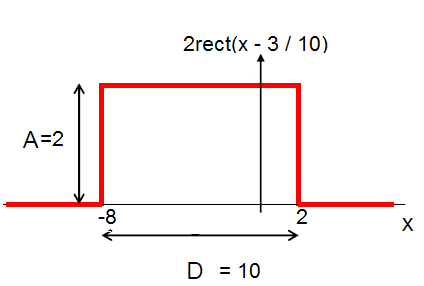
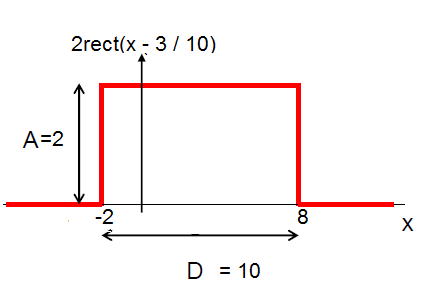
Revertinng q2 offset and minor fixes

diff --git a/provaVisao2015Casa.tex b/provaVisao2015Casa.tex
@@ -269,7 +269,7 @@ que é $3$ neste caso e, portanto:
 \begin{align*}
     2 . rect\bigg(\frac{x-3}{10}\bigg) \xrightarrow{\mathscr{F}} 20\frac{\sin 5\omega}{5\omega}e^{-3\omega i} \\
     g(x) = 2 . rect\bigg(\frac{x-3}{10}\bigg) = \left\{ \begin{array}{rl} 
-     2, &\mbox{ $-8 < x < 2$} \\
+     2, &\mbox{ $-2 < x < 8$} \\
      0, &\mbox{ caso contrário}
            \end{array} \right.
 \end{align*}
@@ -379,8 +379,9 @@ Temos que N=4, ou seja, o número de pontos no plano de Argand-Gauss, logo:
     &X_0 = (1 + i) + (-1 + i) + (-1 - i) + (1 - i)) &\\
     &X_1 = (1 + i) + (-1 + i)e^{\frac{-2\pi i}{4}} + (-1 - i)e^{\frac{-4\pi i}{4}} + (1 - i)e^{\frac{-6\pi i}{4}} &\\
     &X_2 = (1 + i) + (-1 + i)e^{\frac{-4\pi i}{4}} + (-1 - i)e^{\frac{-8\pi i}{4}} + (1 - i)e^{\frac{-12\pi i}{4}} &\\
-    &X_3 = (1 + i) + (-1 + i)e^{\frac{-6\pi i}{4}} + (-1 - i)e^{\frac{-12\pi i}{4}} + (1 - i)e^{\frac{-18\pi i}{4}} &\\
+    &X_3 = (1 + i) + (-1 + i)e^{\frac{-6\pi i}{4}} + (-1 - i)e^{\frac{-12\pi i}{4}} + (1 - i)e^{\frac{-18\pi i}{4}} &
 \end{align*}
+
 Calculando cada exponencial complexa com a relação de Euler e substituindo os resultados na equação acima:
 \begin{align*}
     &e^{\frac{-2\pi i}{4}} = cos(\frac{2\pi}{4}) - isen(\frac{2\pi}{4}) = -i &\\
@@ -414,13 +415,16 @@ Com base no teorema de Pitágoras temos que a hipotenusa c desse triângulo é d
  c &= \sqrt{18}	     
 \end{align*}
 
-Consequentemente, temos que a diagonal é $d = \sqrt{18} = 4.24264$ e as coordenadas dos pontos são:
+Consequentemente, temos que a diagonal é $d = \sqrt{18} = 4.24264$ e as coordenadas dos pontos da imagem, que denominei de $f$, são:
 \begin{align*}
-    (5, 4 + \frac{4.24264}{2}), (5 - \frac{4.24264}{2}, 4), (5, 4 - \frac{4.24264}{2}), (5 + \frac{4.24264}{2}, 4) \\
-    (5, 6.12132), (2.87868, 4), (5, 1.87868), (7.12132, 4)
+    f &= (5, 4 + \frac{4.24264}{2}), (5 - \frac{4.24264}{2}, 4), (5, 4 - \frac{4.24264}{2}), (5 + \frac{4.24264}{2}, 4) \\
+    f &= (5, 6.12132), (2.87868, 4), (5, 1.87868), (7.12132, 4)
 \end{align*}
     
-Agora, devemos representar as coordenadas por pontos no Plano de Argand-Gauss, que são: $(5 + 6.12132i, 2.87868 + 4i, 5 + 1.87868i, 7.12132 + 4i)$.
+Agora, devemos representar as coordenadas por pontos no Plano de Argand-Gauss, que são:
+\begin{align*}
+    f &= (5 + 6.12132i, 2.87868 + 4i, 5 + 1.87868i, 7.12132 + 4i)
+\end{align*}
 
 Os descritores de Fourier podem ser calculados a partir da DFT \cite{broughton2009discrete}:
 \begin{align*}
@@ -442,7 +446,7 @@ Temos que N=4, ou seja, o número de pontos no plano de Argand-Gauss, logo:
     &X_0 = (5 + 6.12132i) + (2.87868 + 4i) + (5 + 1.87868i) + (7.12132 + 4i)) &\\
     &X_1 = (5 + 6.12132i) + (2.87868 + 4i)e^{\frac{-2\pi i}{4}} + (5 + 1.87868i)e^{\frac{-4\pi i}{4}} + (7.12132 + 4i)e^{\frac{-6\pi i}{4}} &\\
     &X_2 = (5 + 6.12132i) + (2.87868 + 4i)e^{\frac{-4\pi i}{4}} + (5 + 1.87868i)e^{\frac{-8\pi i}{4}} + (7.12132 + 4i)e^{\frac{-12\pi i}{4}} &\\
-    &X_3 = (5 + 6.12132i) + (2.87868 + 4i)e^{\frac{-6\pi i}{4}} + (5 + 1.87868i)e^{\frac{-12\pi i}{4}} + (7.12132 + 4i)e^{\frac{-18\pi i}{4}} &\\
+    &X_3 = (5 + 6.12132i) + (2.87868 + 4i)e^{\frac{-6\pi i}{4}} + (5 + 1.87868i)e^{\frac{-12\pi i}{4}} + (7.12132 + 4i)e^{\frac{-18\pi i}{4}} &
 \end{align*}
 
 Calculando cada exponencial complexa com a relação de Euler e substituindo os resultados na equação acima:
@@ -471,7 +475,7 @@ Temos então que o resultado dos descritores de Fourier da imagem é:
   funções fornecidas pela biblioteca NUMPY para facilitar a
   programação.
   
-O programa está na pasta source sob o nome $fourier\_descriptors.py$.
+O programa foi implementado em Python, com a biblioteca Numpy e está localizado em \textbf{source/fourier\_descriptors.py}.
 
 \item Para reconstruir a curva, faça uma função que receba um vetor
   com os descritores de Fourier, um número $N$ de descritores a serem
